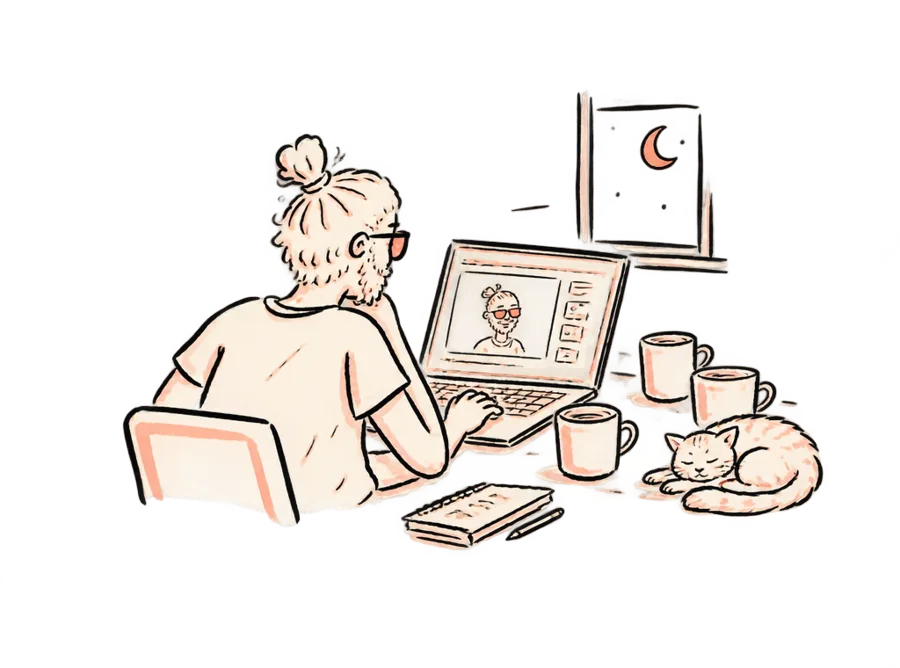
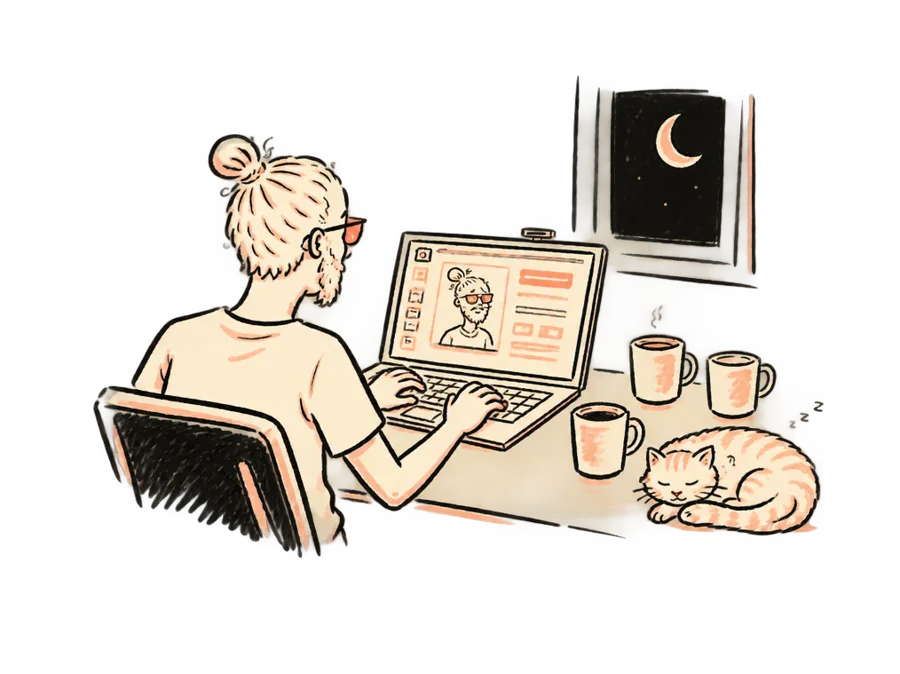
Comic pages with three drawings each, drawn desk items, badge centring, showcase padding

Changed region(s): [[0.0933, 0.1198, 0.9333, 0.8383]]

diff --git a/src/app/components/story/ComicStrip.tsx b/src/app/components/story/ComicStrip.tsx
@@ -1,4 +1,3 @@
-import imgHeadCut from "../../../assets/head.webp";
 /*
  * The About section as a comic strip: hand-drawn panels (rough.js) you scroll
  * through sideways. Each panel draws itself the first time it shows up.
@@ -15,6 +14,19 @@ import imgNews from "../../../assets/comic/news.webp";
 import imgTeach from "../../../assets/comic/teach.webp";
 import imgFamily from "../../../assets/comic/family.webp";
 import imgSite from "../../../assets/comic/site.webp";
+import imgCouchB from "../../../assets/comic/couch-b.webp";
+import imgCouchC from "../../../assets/comic/couch-c.webp";
+import imgBooksB from "../../../assets/comic/books-b.webp";
+import imgBooksC from "../../../assets/comic/books-c.webp";
+import imgNewsB from "../../../assets/comic/news-b.webp";
+import imgNewsC from "../../../assets/comic/news-c.webp";
+import imgTeachB from "../../../assets/comic/teach-b.webp";
+import imgTeachC from "../../../assets/comic/teach-c.webp";
+import imgFamilyB from "../../../assets/comic/family-b.webp";
+import imgFamilyC from "../../../assets/comic/family-c.webp";
+import imgSiteB from "../../../assets/comic/site-b.webp";
+import imgSiteC from "../../../assets/comic/site-c.webp";
+
 
 const gen = rough.generator();
 const INK = "#1d1a17";
@@ -92,7 +104,7 @@ function scene(kind: Scene, s: number): P[] {
 interface Panel { scene: Scene; year: string; text: [pro: string, fun: string]; caption?: string }
 const PANELS: Panel[] = [
   {
-    scene: "couch", img: imgCouch, year: "2007",
+    scene: "couch", img: imgCouch, more: [imgCouchB, imgCouchC], year: "2007",
     title: ["the upholstery years", "the couch era"],
     text: ["I started out stitching couches. Really. PlayStation after work.", "Stitched couches by day, PlayStation by night. Peak multitasking."],
     bubble: ["one more stitch…", "respawn in 3, 2, 1"],
@@ -110,7 +122,7 @@ const PANELS: Panel[] = [
     ],
   },
   {
-    scene: "pencil", img: imgBooks, year: "2012",
+    scene: "pencil", img: imgBooks, more: [imgBooksB, imgBooksC], year: "2012",
     title: ["300 drawings later", "my hand still hurts"],
     text: ["300+ illustrated stories for children's books. My hand still remembers.", "Drew 300+ kids' book illustrations. My hand still hurts."],
     bubble: ["page 212…", "the dragon needs friends"],
@@ -128,7 +140,7 @@ const PANELS: Panel[] = [
     ],
   },
   {
-    scene: "screens", img: imgNews, year: "2018",
+    scene: "screens", img: imgNews, more: [imgNewsB, imgNewsC], year: "2018",
     title: ["news speed", "the news years"],
     text: ["Al Jazeera, then TRT: motion and visuals for news, at news speed.", "Designed things millions saw. Told nobody at dinner, or they'd ask me to fix their Wi-Fi."],
     bubble: ["we're live in 4 minutes", "no pressure"],
@@ -146,7 +158,7 @@ const PANELS: Panel[] = [
     ],
   },
   {
-    scene: "class", img: imgTeach, year: "2020",
+    scene: "class", img: imgTeach, more: [imgTeachB, imgTeachC], year: "2020",
     title: ["talking at people", "the teaching arc"],
     text: ["Teaching UX at universities, bootcamps, Zain and 42 Amman.", "Convincing a new generation that Comic Sans is never the answer. Ok, maybe ironically."],
     bubble: ["what's the user's goal?", "any questions? no? ok, pizza"],
@@ -164,7 +176,7 @@ const PANELS: Panel[] = [
     ],
   },
   {
-    scene: "home", img: imgFamily, year: "2026",
+    scene: "home", img: imgFamily, more: [imgFamilyB, imgFamilyC], year: "2026",
     title: ["made for alma & eleen", "my two toughest clients"],
     text: ["Siba: a study app for Alma and Eleen. They review harder than any client.", "Built an app for my kids. They gave it 3 stars and asked for the iPad back."],
     bubble: ["can it say my name?", "no red X. ever."],
@@ -182,7 +194,7 @@ const PANELS: Panel[] = [
     ],
   },
   {
-    scene: "doodle", img: imgSite, year: "now",
+    scene: "doodle", img: imgSite, more: [imgSiteB, imgSiteC], year: "now",
     title: ["this website", "2am, three coffees"],
     text: ["This website, at 2am, three coffees in. Hi.", "This website. 2am. Three coffees. The cat gave up. Hi."],
     bubble: ["one more section…", "diva: go to sleep"],
@@ -314,11 +326,6 @@ export function ComicStrip() {
                 <p className="absolute left-5 right-5 bottom-5 font-['Shantell_Sans',cursive] text-[14px] md:text-[15px] leading-snug text-black">
                   {p.text[isProfessional ? 0 : 1]}
                 </p>
-                {i === PANELS.length - 1 && (
-                  <span className="absolute -right-5 -bottom-4 w-[74px] h-[88px] overflow-hidden rotate-[8deg]" aria-hidden>
-                    <img src={imgHeadCut} alt="" className="absolute inset-0 w-full h-full object-contain max-w-none" />
-                  </span>
-                )}
               </div>
             </motion.figure>
           ))}
@@ -363,52 +370,56 @@ export function ComicStrip() {
                   animate={{ scale: 1, rotate: 0, y: 0, opacity: 1 }}
                   exit={{ scale: 0.9, rotate: 2, y: 20, opacity: 0 }}
                   transition={{ type: "spring", stiffness: 260, damping: 22 }}
-                  className="relative w-full max-w-[1000px] max-h-[92vh] overflow-y-auto bg-[#fffaf1] border-[3px] border-[#1d1a17] shadow-[8px_8px_0_0_#1d1a17] p-5 md:p-8"
+                  className="relative w-full max-w-[1080px] max-h-[92vh] overflow-y-auto bg-[#fffaf1] border-[3px] border-[#1d1a17] shadow-[8px_8px_0_0_#1d1a17] p-5 md:p-8"
                   style={{ borderRadius: "255px 15px 225px 15px / 15px 225px 15px 255px" }}
                 >
                   <div className="flex items-center justify-between gap-4">
                     <span className="font-['Work_Sans'] font-semibold text-[11px] uppercase tracking-[0.16em] bg-black text-white px-2 py-0.5">{p.year} · page {open + 1} of {PANELS.length}</span>
                     <button onClick={() => setOpen(null)} aria-label="Close" className="w-10 h-10 rounded-full border border-black bg-[#fffaf1] hover:rotate-90 transition-transform">✕</button>
                   </div>
-                  <div className="grid md:grid-cols-[1.1fr_1fr] gap-6 md:gap-10 mt-5 items-start">
-                    {/* big panel with a speech bubble */}
-                    <div className="relative border-[3px] border-[#1d1a17] bg-[#fdecd0] p-4 md:p-6" style={{ borderRadius: "12px 180px 12px 200px / 200px 12px 180px 12px" }}>
-                      <motion.img
-                        src={p.img}
-                        alt=""
-                        className="w-full h-auto"
-                        initial={{ clipPath: "inset(0 100% 0 0)" }}
-                        animate={{ clipPath: "inset(0 0% 0 0)" }}
-                        transition={{ duration: 0.9, delay: 0.15, ease: [0.22, 1, 0.36, 1] }}
-                      />
-                      {p.bubble && (
-                        <motion.span
-                          initial={{ scale: 0, rotate: -10 }}
-                          animate={{ scale: 1, rotate: -4 }}
-                          transition={{ delay: 0.9, type: "spring", stiffness: 320, damping: 14 }}
-                          className="absolute top-3 right-3 md:top-5 md:right-5 max-w-[60%] rounded-[18px] border-2 border-[#1d1a17] bg-white px-3.5 py-2 font-['Shantell_Sans',cursive] text-[13px] md:text-[15px] leading-snug shadow-[3px_3px_0_0_#1d1a17]"
-                        >
-                          {p.bubble[k]}
-                          <span aria-hidden className="absolute -bottom-2.5 left-6 w-4 h-4 bg-white border-b-2 border-r-2 border-[#1d1a17] rotate-45" />
-                        </motion.span>
-                      )}
-                    </div>
-                    {/* the page text, in caption boxes */}
-                    <div className="flex flex-col gap-4">
-                      <h3 className="font-display lowercase text-[36px] md:text-[52px] leading-[0.95] text-[#ff614c]">{p.title[k]}</h3>
-                      {p.story[k].map((para, j) => (
+                  <h3 className="font-display lowercase text-[36px] md:text-[56px] leading-[0.95] text-[#ff614c] mt-4">{p.title[k]}</h3>
+                  {/* three comic panels, each with its caption box */}
+                  <div className="grid md:grid-cols-6 gap-4 md:gap-5 mt-5">
+                    {[p.img, p.more[0], p.more[1]].map((src, j) => (
+                      <motion.div
+                        key={src}
+                        initial={{ opacity: 0, y: 20, rotate: j % 2 ? 1 : -1 }}
+                        animate={{ opacity: 1, y: 0, rotate: 0 }}
+                        transition={{ delay: 0.15 + j * 0.18, type: "spring", stiffness: 220, damping: 20 }}
+                        className={`relative border-[3px] border-[#1d1a17] bg-[#fdecd0] overflow-hidden flex ${j === 2 ? "md:col-span-6 flex-col md:flex-row md:items-center" : "flex-col"} ${j === 0 ? "md:col-span-4" : j === 1 ? "md:col-span-2" : ""}`}
+                        style={{ borderRadius: j === 0 ? "12px 120px 12px 140px / 140px 12px 120px 12px" : j === 1 ? "90px 12px 110px 12px / 12px 110px 12px 90px" : "12px 160px 12px 140px / 140px 12px 160px 12px" }}
+                      >
                         <motion.p
-                          key={j}
-                          initial={{ opacity: 0, x: 16 }}
+                          initial={{ opacity: 0, x: -12 }}
                           animate={{ opacity: 1, x: 0 }}
-                          transition={{ delay: 0.3 + j * 0.15 }}
-                          className="font-['Shantell_Sans',cursive] text-[15px] md:text-[17px] leading-[1.55] text-black bg-[#FFF3B0]/70 border border-[#1d1a17]/60 px-4 py-3"
-                          style={{ rotate: `${j % 2 ? 0.5 : -0.5}deg` }}
+                          transition={{ delay: 0.5 + j * 0.18 }}
+                          className={`m-3 md:m-4 bg-[#FFF3B0] border-2 border-[#1d1a17] px-3 py-2 font-['Shantell_Sans',cursive] text-[13px] md:text-[14.5px] leading-[1.45] text-black self-start ${j === 2 ? "md:max-w-[40%] shrink-0" : ""}`}
                         >
-                          {para}
+                          {p.story[k][j]}
                         </motion.p>
-                      ))}
-                    </div>
+                        <div className={`relative flex-1 ${j === 2 ? "min-h-[220px] md:min-h-[260px]" : "min-h-[220px] md:min-h-[280px]"}`}>
+                          <motion.img
+                            src={src}
+                            alt=""
+                            className="absolute inset-0 w-full h-full object-contain p-3 md:p-5"
+                            initial={{ clipPath: "inset(0 100% 0 0)" }}
+                            animate={{ clipPath: "inset(0 0% 0 0)" }}
+                            transition={{ duration: 0.8, delay: 0.3 + j * 0.18, ease: [0.22, 1, 0.36, 1] }}
+                          />
+                          {j === 0 && p.bubble && (
+                            <motion.span
+                              initial={{ scale: 0, rotate: -10 }}
+                              animate={{ scale: 1, rotate: -4 }}
+                              transition={{ delay: 1, type: "spring", stiffness: 320, damping: 14 }}
+                              className="absolute top-2 right-4 max-w-[50%] rounded-[18px] border-2 border-[#1d1a17] bg-white px-3.5 py-2 font-['Shantell_Sans',cursive] text-[13px] md:text-[15px] leading-snug shadow-[3px_3px_0_0_#1d1a17]"
+                            >
+                              {p.bubble[k]}
+                              <span aria-hidden className="absolute -bottom-2.5 left-6 w-4 h-4 bg-white border-b-2 border-r-2 border-[#1d1a17] rotate-45" />
+                            </motion.span>
+                          )}
+                        </div>
+                      </motion.div>
+                    ))}
                   </div>
                   <div className="flex items-center justify-between mt-6">
                     <button onClick={() => setOpen((open - 1 + PANELS.length) % PANELS.length)} className="font-display text-[22px] lowercase text-black hover:text-[#ff614c]">← previous</button>

diff --git a/src/app/components/play/DeskThings.tsx b/src/app/components/play/DeskThings.tsx
@@ -14,17 +14,29 @@ const sw = { stroke: INK, strokeWidth: 2.4, strokeLinecap: "round" as const, str
 export type ThingId = "mac" | "ipad" | "controller" | "mug" | "cat" | "plant" | "pc" | "car";
 
 export const THINGS: { id: ThingId; w: number; h: number; pro: string; fun: string; left: number /* % of desk */; solid?: boolean }[] = [
-  { id: "mac", w: 150, h: 112, left: 44, pro: "Where everything gets designed. Siba lives on this screen.", fun: "Where I pretend to work. Siba lives here now.", solid: true },
-  { id: "ipad", w: 84, h: 62, left: 22, pro: "iPad + Pencil: every @alaa_aliens doodle starts here.", fun: "The 2am doodle machine.", solid: true },
-  { id: "controller", w: 70, h: 48, left: 78, pro: "Longtime console gamer. It's research.", fun: "5 PlayStation generations. It's research, ok?", solid: true },
-  { id: "mug", w: 44, h: 46, left: 66, pro: "Coffee. The real design tool.", fun: "Coffee #4. Don't ask about #1–3.", solid: true },
-  { id: "plant", w: 40, h: 58, left: 6, pro: "Still alive. Unlike my inbox.", fun: "Alive on day 212. Personal record." },
-  { id: "pc", w: 54, h: 74, left: 91, pro: "Ryzen 9800X3D + RTX 5080, built for sim racing.", fun: "Built a PC for \"sim racing\". Mostly runs Figma.", solid: true },
-  { id: "cat", w: 72, h: 60, left: 2, pro: "Diva. Attends every call. Approves nothing.", fun: "Diva. Sits on the keyboard during reviews. Great feedback." },
+  { id: "mac", w: 170, h: 150, left: 44, pro: "Where everything gets designed. Siba lives on this screen.", fun: "Where I pretend to work. Siba lives here now.", solid: true },
+  { id: "ipad", w: 110, h: 80, left: 22, pro: "iPad + Pencil: every @alaa_aliens doodle starts here.", fun: "The 2am doodle machine.", solid: true },
+  { id: "controller", w: 80, h: 70, left: 78, pro: "Longtime console gamer. It's research.", fun: "5 PlayStation generations. It's research, ok?", solid: true },
+  { id: "mug", w: 54, h: 54, left: 66, pro: "Coffee. The real design tool.", fun: "Coffee #4. Don't ask about #1–3.", solid: true },
+  { id: "plant", w: 56, h: 62, left: 6, pro: "Still alive. Unlike my inbox.", fun: "Alive on day 212. Personal record." },
+  { id: "pc", w: 70, h: 92, left: 91, pro: "Ryzen 9800X3D + RTX 5080, built for sim racing.", fun: "Built a PC for \"sim racing\". Mostly runs Figma.", solid: true },
+  { id: "cat", w: 84, h: 72, left: 2, pro: "Diva. Attends every call. Approves nothing.", fun: "Diva. Sits on the keyboard during reviews. Great feedback." },
 ];
 
+import stMac from "../../../assets/stickers/mac.webp";
+import stIpad from "../../../assets/stickers/ipad.webp";
+import stPc from "../../../assets/stickers/pc.webp";
+import stMug from "../../../assets/stickers/mug.webp";
+import stController from "../../../assets/stickers/controller.webp";
+import stPlant from "../../../assets/stickers/plant.webp";
+import stCat from "../../../assets/stickers/cat.webp";
+const DRAWN: Partial<Record<ThingId, string>> = { mac: stMac, ipad: stIpad, pc: stPc, mug: stMug, controller: stController, plant: stPlant, cat: stCat };
 export function Thing({ id, size = 1 }: { id: ThingId; size?: number }) {
   const S = (w: number, h: number) => ({ width: w * size, height: h * size });
+  const t = THINGS.find((x) => x.id === id);
+  if (DRAWN[id] && t) {
+    return <img src={DRAWN[id]} alt="" draggable={false} style={{ width: t.w * size, height: t.h * size, objectFit: "contain" }} className="block max-w-none select-none pointer-events-none" aria-hidden />;
+  }
   switch (id) {
     case "mac":
       return (

diff --git a/src/app/components/Phone.tsx b/src/app/components/Phone.tsx
@@ -131,14 +131,14 @@ export function BrowserShowcase({ shots, color, url }: { shots: { src: string; a
   const tabName = (s: { alt: string; tab?: string }, k: number) => s.tab ?? s.alt.split(":")[0].replace(/^[^ ]+ /, "").trim() ?? `screen ${k + 1}`;
   return (
     <div
-      className="relative w-full rounded-[18px] border border-dashed border-black/30 border-b-0 bg-[#fffaf1]/60 pt-8 md:pt-12 px-3 md:px-10 pb-0 overflow-hidden"
+      className="relative w-full rounded-[18px] border border-dashed border-black/30 bg-[#fffaf1]/60 pt-8 md:pt-12 px-3 md:px-10 pb-8 md:pb-12 overflow-hidden"
       style={{ backgroundImage: "repeating-linear-gradient(transparent 0 31px, rgba(29,26,23,.08) 31px 32px)" }}
       onMouseEnter={() => setPaused(true)}
       onMouseLeave={() => setPaused(false)}
     >
       <div className="relative mx-auto w-full max-w-[980px]">
         {/* tabs */}
-        <div className="flex items-end gap-1 px-2 overflow-x-auto" role="tablist">
+        <div className="flex flex-wrap items-end gap-1 px-2" role="tablist">
           {shots.map((s, k) => (
             <button
               key={s.src}
@@ -157,7 +157,7 @@ export function BrowserShowcase({ shots, color, url }: { shots: { src: string; a
             </button>
           ))}
         </div>
-        <div className="relative rounded-[10px] md:rounded-[14px] rounded-b-none border border-b-0 border-[#1d1a17] bg-[#fffaf1] overflow-hidden">
+        <div className="relative rounded-[10px] md:rounded-[14px] border border-[#1d1a17] bg-[#fffaf1] overflow-hidden">
           <div className="flex items-center gap-2 px-3 h-8 md:h-9 border-b border-[#1d1a17] bg-[#fdecd0]">
             <span className="flex gap-1.5" aria-hidden>
               <i className="block w-2.5 h-2.5 rounded-full border-[1.5px] border-[#1d1a17] bg-[#ff614c]" />

diff --git a/src/app/components/play/DoodleTitle.tsx b/src/app/components/play/DoodleTitle.tsx
@@ -10,9 +10,10 @@ import imgHead from "figma:asset/91302547bc91ac7f0baa4ec137febfe13f1115ff.png";
 import imgHand from "figma:asset/e1bc33a6eca046916183a4821600eb03ec70fd26.png";
 import imgBoard from "figma:asset/7d1c70ce8d978daa5db3cd98761c352b121d3ad8.png";
 import { StickerArt, type Kind } from "./Stickers";
+import artMug from "../../../assets/stickers/mug.webp";
 
 const ART: Record<string, React.ReactNode> = {
-  coffee: <StickerArt kind="mug" size={52} />,
+  coffee: <span className="inline-block w-[1.15em] h-[1.15em] align-[-0.2em]"><img src={artMug} alt="" className="w-full h-full object-contain max-w-none" /></span>,
   head: (
     <span className="relative inline-block w-[0.9em] h-[1.05em] overflow-hidden align-[-0.15em]">
       <img src={imgHeadCut} alt="" className="absolute inset-0 w-full h-full object-contain max-w-none" />
@@ -67,7 +68,7 @@ export function DoodleTitle({
           {parts.map((p, i) => {
             const m = p.match(/^\{([a-z]+)\}$/);
             if (!m) return <span key={i} aria-hidden>{p}</span>;
-            const node = ART[m[1]] ?? <StickerArt kind={m[1] as Kind} size={40} />;
+            const node = ART[m[1]] ?? <span className="inline-flex w-[0.85em] h-[0.85em] align-[-0.1em] items-center justify-center [&>*]:w-full [&>*]:h-full"><StickerArt kind={m[1] as Kind} size={40} /></span>;
             return (
               <motion.span
                 key={i}

diff --git a/src/app/components/play/HeadBadge.tsx b/src/app/components/play/HeadBadge.tsx
@@ -4,7 +4,7 @@ import imgHeadCut from "../../../assets/head.webp";
 export function HeadBadge({ size = 64, className = "", bg = "#fdecd0", ring = true }: { size?: number; className?: string; bg?: string; ring?: boolean }) {
   return (
     <span className={`relative inline-block shrink-0 rounded-full overflow-hidden ${ring ? "border border-[#1d1a17]" : ""} ${className}`} style={{ width: size, height: size, background: bg }}>
-      <img src={imgHeadCut} alt="" draggable={false} className="absolute left-[16%] top-[14%] w-[70%] h-[76%] object-contain max-w-none" />
+      <img src={imgHeadCut} alt="" draggable={false} className="absolute left-[17%] top-[13%] w-[66%] h-[74%] object-contain object-center max-w-none" />
     </span>
   );
 }

diff --git a/src/app/components/play/SkillsTable.tsx b/src/app/components/play/SkillsTable.tsx
@@ -12,7 +12,7 @@ import { DeskThings } from "./DeskThings";
 
 const PRO = [
   "UX Research", "UI Design", "Design Systems", "Motion", "Prototyping", "UX Audits",
-  "Workshops", "Illustration", "Motion", "Figma", "Product Strategy", "Building with AI",
+  "Workshops", "Illustration", "Arabic typography", "Figma", "Product Strategy", "Shipping my own apps",
 ];
 const FUN_EXTRA = ["Strong opinions", "Coffee", "2am energy", "Border-radius debates"];
 const COLORS = ["#fffaf1", "#FFE1D9", "#E6E0FF", "#D6F4F7", "#FFE9C7", "#DDF3DF"];
